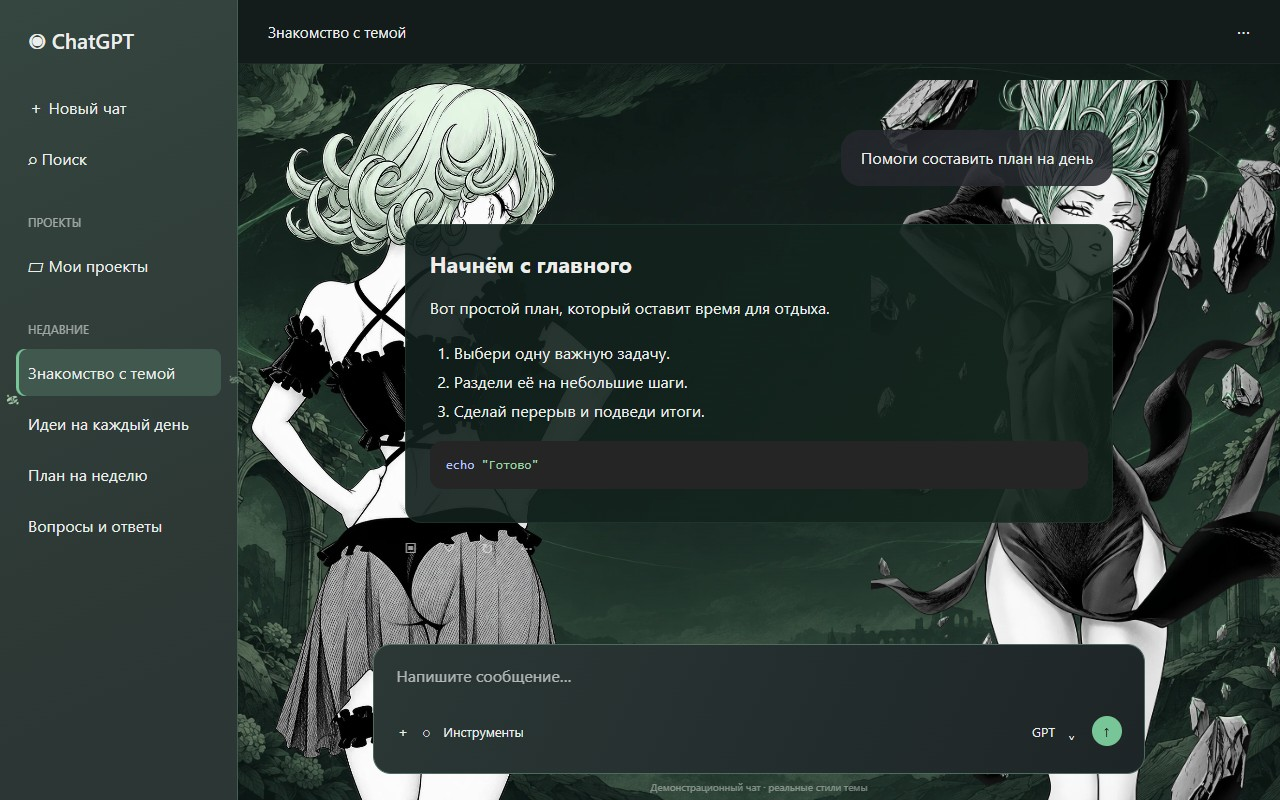
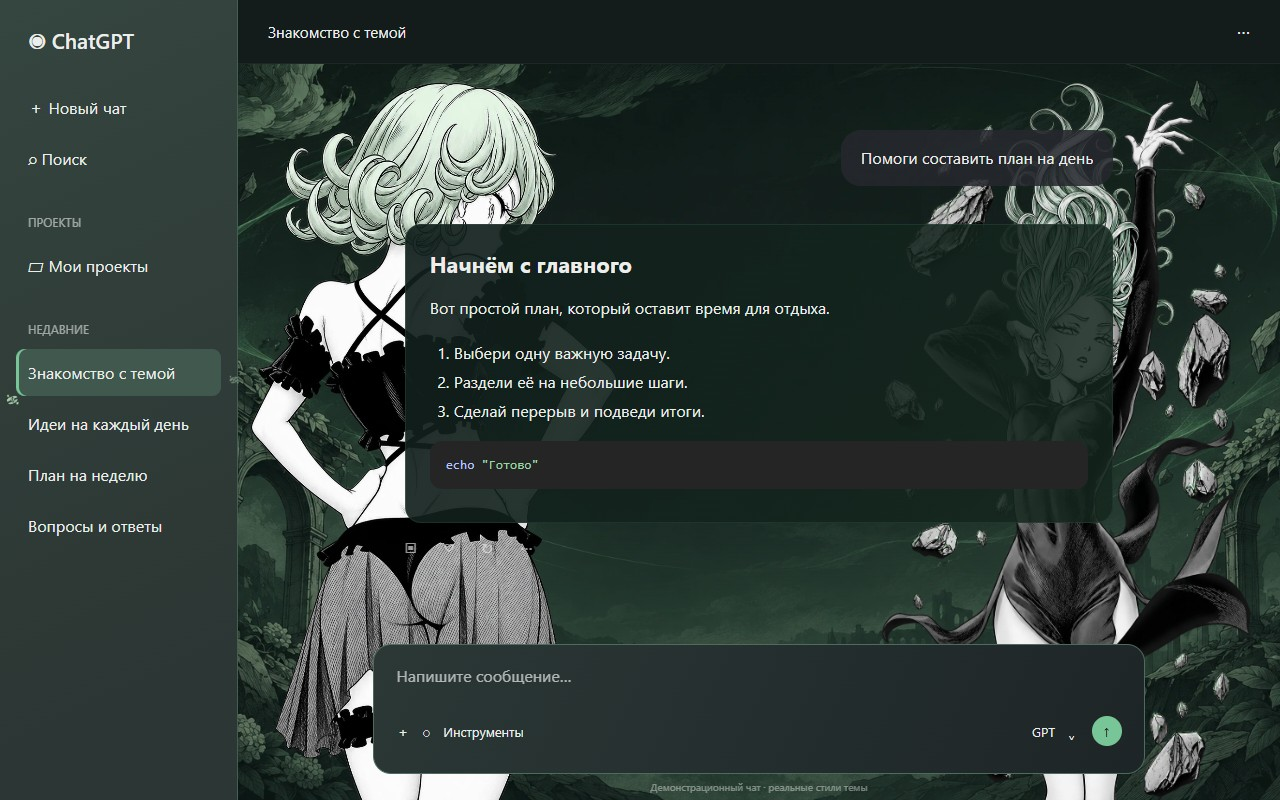
Complete Tatsumaki hair raised hand and floating rocks

Changed region(s): [[0.6875, 0.0938, 1.0, 1.0], [0.9688, 0.8125, 1.0, 0.8438]]

diff --git a/themes/tatsumaki-jade-duo/theme.css b/themes/tatsumaki-jade-duo/theme.css
@@ -254,3 +254,6 @@ html.codex-theme-studio .main-surface:not(.main-surface .main-surface)::after {
  mask-image:none !important;
  -webkit-mask-image:none !important;
 }
+
+/* Keep the completed hair, raised hand and rocks inside the portrait. */
+html.codex-theme-studio .main-surface:not(.main-surface .main-surface)::before {inset:auto 1% 0 auto;height:90%;width:48%;aspect-ratio:auto;background-size:contain;background-position:right bottom;}

diff --git a/themes/tatsumaki-jade/theme.css b/themes/tatsumaki-jade/theme.css
@@ -206,3 +206,6 @@ html.codex-theme-studio .main-surface:not(.main-surface .main-surface)::after {
  mask-image:none !important;
  -webkit-mask-image:none !important;
 }
+
+/* Keep the completed hair, raised hand and rocks inside the portrait. */
+html.codex-theme-studio .main-surface:not(.main-surface .main-surface)::before {inset:auto 1% 0 auto;height:90%;width:48%;aspect-ratio:auto;background-size:contain;background-position:right bottom;}
